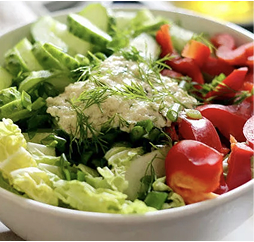
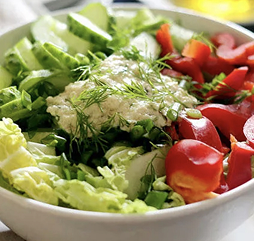
added overlay to the recipe card

diff --git a/src/components/RecipeCard.vue b/src/components/RecipeCard.vue
@@ -1,6 +1,20 @@
 <template>
   <div class="recipe-card">
-    <img alt="recipe-card" src="../assets/img/recipe-card.png" />
+    <div class="image-container">
+      <img alt="recipe-card" src="../assets/img/recipe-card.png" />
+      <div class="overlay">
+        <div class="time">1ч 17м</div>
+        <div class="ingredients">
+          <p>ингредиенты:</p>
+          <ul>
+            <li>огурцы</li>
+            <li>болгарский перец</li>
+            <li>салат айсберг</li>
+            <li>зеленый лук</li>
+          </ul>
+        </div>
+      </div>
+    </div>
     <div class="description flex">
       <h3>Постный салат</h3>
       <SvgIcon class="like-fill" name="like-fill" />
@@ -20,6 +34,54 @@ export default {
 <style lang="scss" scoped>
 .recipe-card {
   background-color: #e3cbbc;
+  border-radius: 6px;
+  box-shadow: 0 2px 8px rgba(0, 0, 0, 0.15);
+  cursor: pointer;
+
+  .image-container {
+    position: relative;
+
+    img {
+      border-top-left-radius: 6px;
+      border-top-right-radius: 6px;
+    }
+  }
+
+  .overlay {
+    position: absolute;
+    top: 0;
+    left: 0;
+    padding: 19px;
+    box-sizing: border-box;
+    border-top-left-radius: 6px;
+    border-top-right-radius: 6px;
+    width: 100%;
+    height: 100%;
+    background: rgba(47, 34, 34, 0.65);
+    opacity: 0;
+    color: #fff;
+    transition: opacity 0.3s ease-in-out;
+
+    .time {
+      text-align: end;
+      font-size: 16px;
+      margin-bottom: 30px;
+    }
+
+    .ingredients {
+      p {
+        text-transform: uppercase;
+      }
+
+      ul {
+        list-style: none;
+      }
+    }
+  }
+
+  &:hover .overlay {
+    opacity: 1;
+  }
 
   .description {
     padding: 15px 20px 20px;
